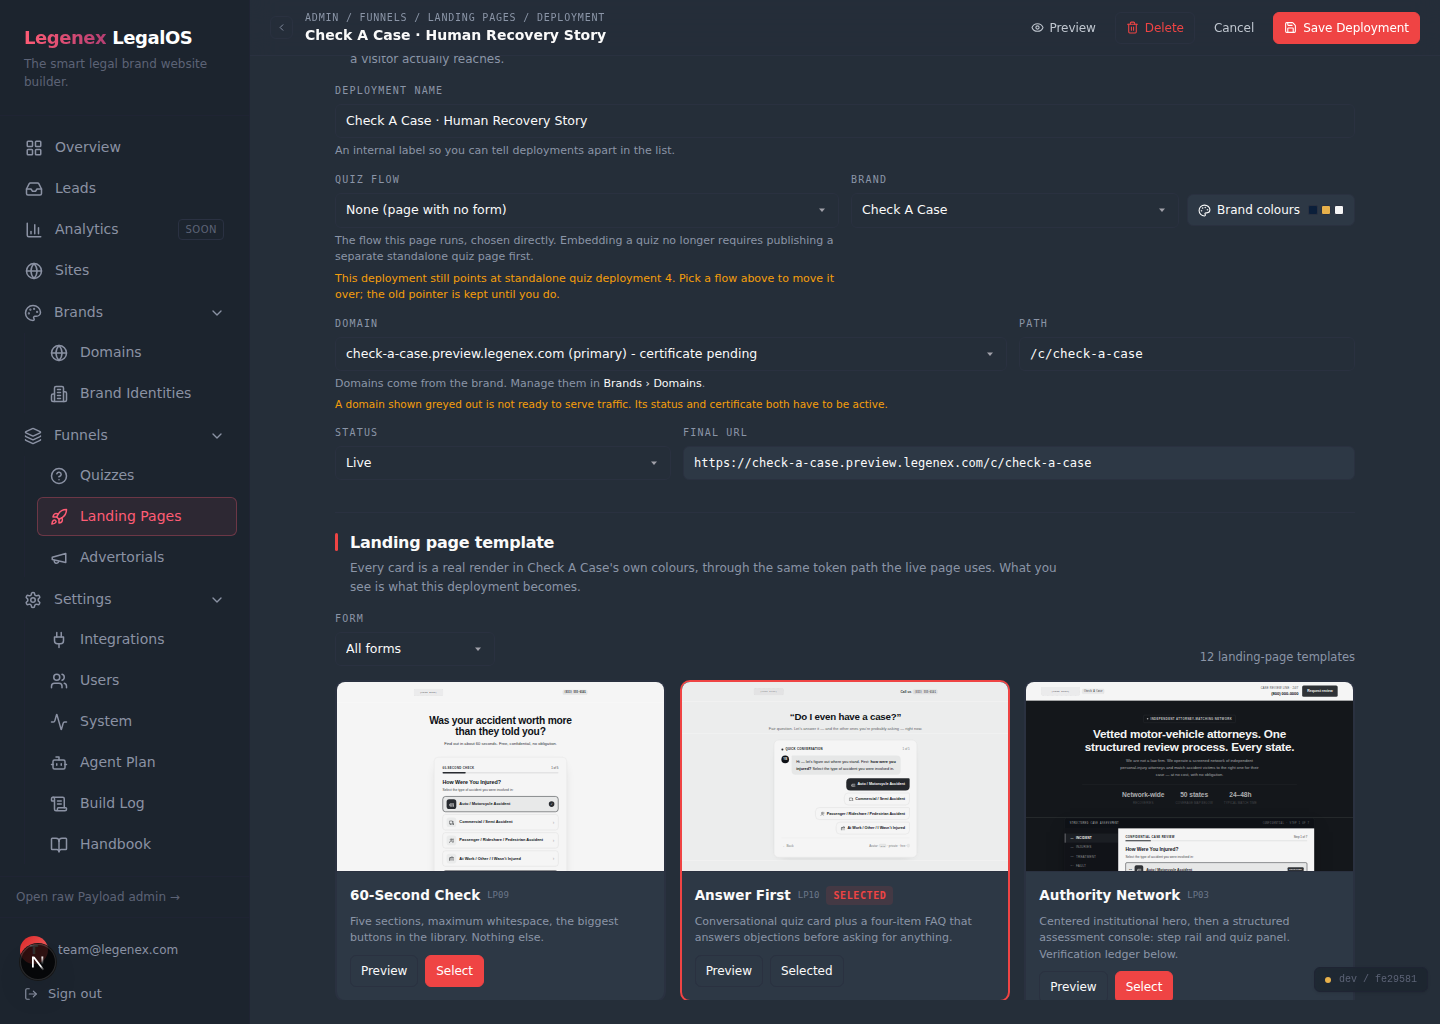
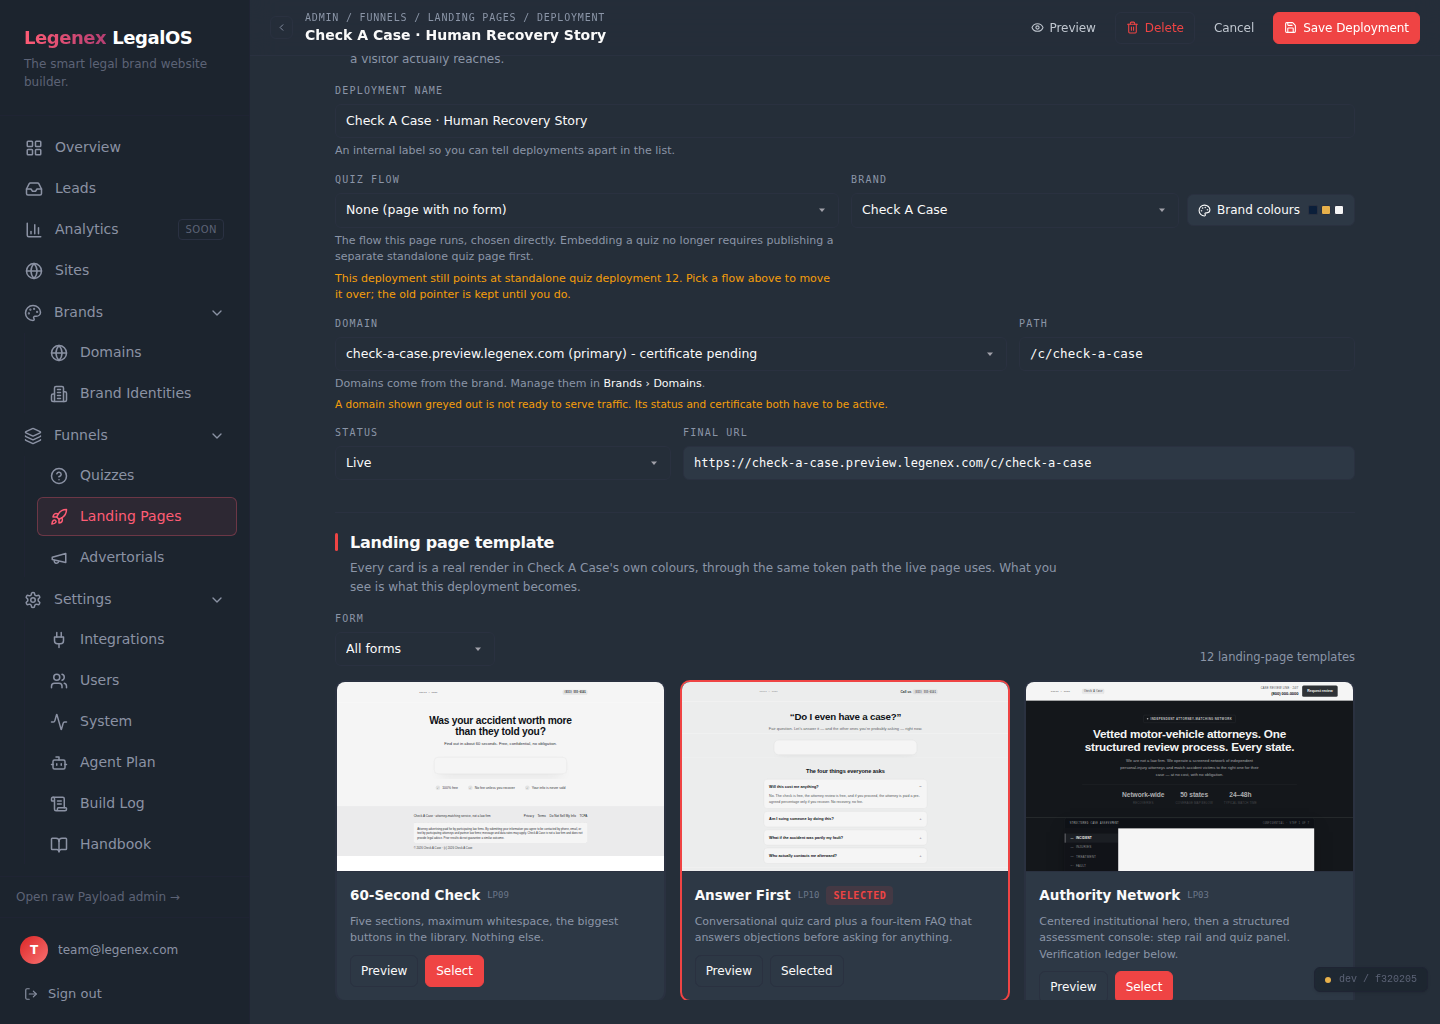
docs: traceability matrix, state checkpoint, and two records that stopped being true
- docs/requirements-traceability.md: every requirement with its proof and an
  honest status - builder-dependent rows say IN PROGRESS, not PASS.
- docs/template-model-correction.md: the NOT DONE section (ported LPs never
  mount the runtime) gets a dated RESOLVED addendum - the release branch's
  quiz-mount system now runs on the first-class template records, proven by
  test:e2e in a production build.
- docs/template-sweep-baseline.md: re-measured on the integrated branch
  (25 fixture failures, was 27 at first cut; 200/24 unchanged).
- docs/final-integration-state.md: production sign-in crash, empty-box fix,
  sample-seed heal, and the current suite ledger.

Claude-Session: https://claude.ai/code/session_01ASm6bBkEEXQpeX46Rj2fWB

diff --git a/docs/requirements-traceability.md b/docs/requirements-traceability.md
@@ -1,0 +1,160 @@
+# Requirements traceability — final integration
+
+Every requirement from the final-integration instruction, with where it lives,
+what proves it, and its current status. Statuses are only NOT STARTED /
+IN PROGRESS / PASS / EXTERNAL BLOCKER / FAIL. "PASS" means a reproducible
+automated test, browser assertion, database assertion or screenshot exists and
+ran green on the integrated branch in THIS environment (fresh Postgres 16,
+production build). Suites named here: `pnpm test` (11 unit suites),
+`test:isolation`, `test:identity`, `test:release`, `test:bootstrap`,
+`test:dom`, `test:ui` (Chromium vs production build), `test:e2e`
+(production-mode browser lead proof), `sweep:templates`.
+
+Owners: ORCH = orchestrator session; B-C/B-E/B-F = builder agents (quiz-AI,
+security, browser-conformance); source-branch work is credited where it was
+merged in.
+
+## 1 · Branch integration
+
+| ID | Requirement | Where | Proof | Status |
+|---|---|---|---|---|
+| R1.1 | Both source branches integrated on one branch | merge bcd36d4 + repairs | `git log --graph`; both tips are parents | PASS |
+| R1.2 | Conflicts resolved semantically, decisions recorded | docs/final-integration-state.md §"Semantic merge decisions" | 8 recorded decisions; scout reports in docs/agent-reports/ | PASS |
+| R1.3 | Duplicate migration prefix resolved, deterministic order | 20260813_220000_template_records.ts (renamed) | `pnpm test:release` 27/27 incl. renamed migration in RELEASE_MIGRATIONS | PASS |
+| R1.4 | No security/runtime/release work lost | scout-security.md guard inventory; union verified | authz 69, webhook 133, observability 44, brand-identity 721 green | PASS |
+| R1.5 | Fresh PG16 bootstrap, both source-schema upgrades, no manual SQL | migrations chain | `payload migrate` on empty DB; upg_ui + upg_rel scratch DBs migrated + `verify:schema` OK ×2; `test:bootstrap` 55/55 | PASS |
+| R1.6 | Generated types include all new collections | src/payload-types.ts (generated) | `generate:types` + `pnpm typecheck` clean | PASS |
+
+## 2 · Product model (section 6)
+
+| ID | Requirement | Where | Proof | Status |
+|---|---|---|---|---|
+| R2.1 | Site Pages untouched by LP correction | src/app/(app)/admin/sites/[slug]/pages, src/collections/Pages.ts | zero diffs vs main (scout-brand-site §4); `test:dom` 357 | PASS |
+| R2.2 | Quiz Flow owns logic; Quiz Template owns presentation; never merged | FunnelQuizzes vs FunnelQuizTemplates collections | `test:flow` 202; `test:records` 85; separate collections | PASS |
+| R2.3 | Quiz Deployment = Flow × Template × Brand × Config | src/lib/quiz-deployment.ts | `test:identity` quiz A/B render distinct templates from one flow | PASS |
+| R2.4 | LP Template is THE authored page (no Page+Template split) | funnel-landing-pages records; ensureTemplateLibrary | `test:identity` 33; `test:ui` "no Pages tab" assertions | PASS |
+| R2.5 | Same LP template record feeds list/editor/preview/selector/deployment-preview/public render | template-records + resolveTemplate chain | `test:identity`: saved id == publicly rendered id, repoint changes render | PASS |
+| R2.6 | Brand Identity owns colors/typography/logos/voice/facts/legal/nav | Sites.brand_identity + src/lib/brand-map.ts (single mapper) | `test:brand-identity` 721; scout-brand-site: no second mapper | PASS |
+| R2.7 | Deployments own selection/brand/domain/path/status/destinations/tracking/overrides | funnel-*-deployments collections | `test:publish` 184; `test:ui` General/Destination/Tracking tabs | PASS |
+| R2.8 | AI may not alter graph/qualification/consent/identity/domain/routing/tracking/authz/publication/code | content-actions targets editableSlots only; AI schema closed | `test:ai` 58 (incl. refusals); quiz-AI schema (B-C) | PASS |
+
+## 3 · LP template system (section 8)
+
+| ID | Requirement | Proof | Status |
+|---|---|---|---|
+| R3.1 | Tabs exactly Templates \| Deployments, no Pages tab | `test:ui`: "exactly two top-level tabs", per-tab assertions | PASS |
+| R3.2 | 12 stock templates materialized as stable records | `test:identity` "twelve records"; `test:records` 85 | PASS |
+| R3.3 | Samples (MVA Pain First / Editorial Test) reconciled, not a competing library | `test:identity`: samples absent from library, deployments repointed | PASS |
+| R3.4 | Preview/Edit/Clone/Enable/Disable/Delete/Create-blank/Create-with-Claude | `test:ui` row-action assertions + AI wizard; `test:records` CRUD | PASS |
+| R3.5 | Stock identity immutable via REST/CMS/local API | src/hooks/template-guards.ts; `test:records` raw-door cases | PASS |
+| R3.6 | Referenced templates not hard-deletable; disable ≠ takedown | template-guards + `test:records`; `test:identity` disabled-still-serves | PASS |
+| R3.7 | Clones: unique stable identity, renderable after save/reload | `test:identity` clone cases (LP + quiz) | PASS |
+| R3.8 | AI-created LP templates: valid structure, real preview, stable id, no blank preview, no fallback | LP AI wizard + `test:ai`; PortedTemplateView un-mounted drawing fix | PASS |
+| R3.9 | Template editor: left controls, live preview, sections, mobile/desktop, brand-neutral saved state | `test:ui` editor assertions + screenshots | PASS |
+
+## 4 · Quiz template system (section 9)
+
+| ID | Requirement | Proof | Status |
+|---|---|---|---|
+| R4.1 | Tabs exactly Quiz Flows \| Templates \| Deployments | `test:ui` quiz-tab assertions | PASS |
+| R4.2 | 20 stock quiz templates as manageable records | `test:identity` "twenty records"; `test:records` | PASS |
+| R4.3 | Template CRUD incl. create custom + with Claude | `test:ui`; createQuizTemplateWithClaude (B-C) | IN PROGRESS |
+| R4.4 | Stable template id separate from renderer key; clones use existing renderer + own config | funnel-quiz-templates schema (template_id vs renderer_key) | PASS |
+| R4.5 | Disabled: not selectable for new; existing keep rendering + admin warning | `test:identity` disable case; `test:ui` warning assertions | PASS |
+| R4.6 | Unknown template ids fail visibly, never default/first-template | `test:identity` bad-id refuses; hydrateQuizDeployment → 404 + log | PASS |
+
+## 5 · Deployment UI (section 10)
+
+| ID | Requirement | Proof | Status |
+|---|---|---|---|
+| R5.1 | Quiz deployment tabs exactly General \| Destination URL's \| Tracking & Pixels (Render&Embed / Header/Footer / Body Sections removed) | `test:ui` tab-set assertions | PASS |
+| R5.2 | Quiz General: name/flow/brand/domain/path/status/embed-or-standalone/visual gallery | `test:ui` + quiz-deployment-general.png | PASS |
+| R5.3 | LP deployment same tab set; General incl. DIRECT Quiz Flow select (not a standalone quiz deployment) | `test:ui` + landing-page-deployment-general.png | PASS |
+| R5.4 | Gallery cards: real preview, Preview button, Select button, obvious selected state | `test:ui` card assertions; empty-box fix (PortedTemplate) | PASS |
+| R5.5 | Save/reload preserves selected template record id; public render uses it; no silent fallback | `test:ui` save/reload; `test:identity` DB-level | PASS |
+| R5.6 | Headings visually clear/prominent | `test:ui` heading assertions + screenshots | PASS |
+
+## 6 · Functional LP quiz (section 11) — release-critical
+
+| ID | Requirement | Proof | Status |
+|---|---|---|---|
+| R6.1 | 12 stock LP templates carry exactly one semantic mount where required | extractor refuses ≠1; generated-index verified; `test:slots` 906 | PASS |
+| R6.2 | Mount replaces only the quiz card; surrounding content survives | composeTemplateWithQuizMount; `test:e2e` template-marker assertions | PASS |
+| R6.3 | Static reference buttons removed/inert once runtime mounts | mounted HTML strips card; e2e "clicks produce zero stray posts" | PASS |
+| R6.4 | Runtime = shared QuizRuntime + hydration + selected flow/template/brand + shared consent/destinations/lead submission | QuizMount portal → QuizRuntime; `test:e2e` | PASS |
+| R6.5 | AI/cloned templates that support a quiz carry explicit mount; publish fails visibly without one | extract pipeline + `quiz-bound` preflight; `test:publish` | PASS |
+| R6.6 | Browser E2E: ≥3 materially different LP templates, same flow: mount region, content survives, advance, branching, progress, backtrack clears state, lead form, consent, exactly one POST, exactly one row, mobile+desktop usable, static buttons inert | `test:e2e` 34 assertions (production build) + `test:ui` public proofs; mobile pass (B-F) pending | IN PROGRESS |
+| R6.7 | Exactly one standalone quiz lead | `test:e2e` standalone path | PASS |
+
+## 7 · Brand Identity + Site Builder (section 12)
+
+| ID | Requirement | Proof | Status |
+|---|---|---|---|
+| R7.1 | Multi-source engine preserved (URL/GitHub/markdown/logo/brief/structured; precedence/provenance/confidence/locks/refresh-diff/style/voice/facts/legal) | src/lib/brand-identity/*; `test:brand-identity` 721 | PASS |
+| R7.2 | SSRF protections preserved | image-hosts.mjs deny-all default, admitUrlShape, safePost; `test:brand-identity` SSRF section | PASS |
+| R7.3 | ONE canonical mapping feeds site/quiz/LP previews + public + AI | siteToBrand single mapper (scout-verified); `lint:tokens` | PASS |
+| R7.4 | Site pages preview/publish/unpublish work; nav/footer inherit | untouched site-builder paths; `test:dom` | PASS |
+| R7.5 | No [LOGO SLOT]/mock placeholders; neutral degradation; missing required brand values block publish | renderImageWell 4-outcome degrade; checkBrand preflight; `test:publish` | PASS |
+
+## 8 · AI template & copy (section 13)
+
+| ID | Requirement | Proof | Status |
+|---|---|---|---|
+| R8.1 | New-with-Claude creates real records (LP + quiz) | LP wizard (merged) + quiz wizard (B-C) | IN PROGRESS |
+| R8.2 | LP AI output conforms to section/content/mount schema; quiz AI to visual-config schema | zod schemas via invokeLLM forced tool_use | PASS |
+| R8.3 | No arbitrary executable code; unsafe HTML/unknown slot/missing mount refused | validateOverrides + schema closure; `test:ai` negative cases | PASS |
+| R8.4 | AI unavailable / invalid schema / partial acceptance / human edit / reset / clone-after-AI / selection / preview / render identity | `test:ai` 58 + records/identity suites | PASS |
+
+## 9 · Publishing, paths, domains (section 14)
+
+| ID | Requirement | Proof | Status |
+|---|---|---|---|
+| R9.1 | Dedicated publish/unpublish lifecycle; preflight on publish AND resume; down never gated | publish-actions + decideTransition; `test:publish` 184 | PASS |
+| R9.2 | THE preflight list (authz, parent, template enabled+identity, flow validation, brand, consent, overrides, destinations, tracking, domain ownership/eligibility, path claims, hydration, LP mount) | publish-lifecycle.ts checks; `test:publish` names each | PASS |
+| R9.3 | Every publish door preflights (UI save path included) | saveDeployment/saveQuizDeployment delegate live-flips to set*DeploymentStatus (done); raw-door context gate (B-E) pending | IN PROGRESS |
+| R9.4 | One effective-path model across Pages/quiz/LP deployments | src/lib/path-claims.ts; `test:publish` path sections | PASS |
+| R9.5 | Unpublish preserves records, removes public access; admins keep draft preview | resolver status filters + includeUnpublished re-verified auth | PASS |
+| R9.6 | Domain eligibility not weakened | domain-eligibility.ts single contract; `test:publish` domain-ssl warning case | PASS |
+| R9.7 | Namecheap DNS / production TLS | — | EXTERNAL BLOCKER |
+
+## 10 · Security (section 15)
+
+| ID | Requirement | Proof | Status |
+|---|---|---|---|
+| R10.1 | Template raw doors: no stock delete, no identity rewrite, no disabled-selection via REST/CMS/local | template-guards hooks; `test:records` | PASS |
+| R10.2 | Tenant isolation: no cross-tenant template/deployment writes, no cross-bind of flow/domain, no cross-tenant unpublished reads, no preview-header crossing | authz gates (done); deployment-tenancy hook + extended `test:isolation` (B-E) pending; `test:authz` 69 | IN PROGRESS |
+| R10.3 | SSRF/TrustedForm host/webhook target/image-host/XSS/log-redaction preserved | union verified (scout-security); webhook 133 + brand-identity 721 + observability 44 | PASS |
+| R10.4 | overrideAccess uses documented/justified | scout-security audit: no unjustified elevated write | PASS |
+| R10.5 | Negative controls: disable guard → test fails for the right reason → restore | B-E three-control confirmation pending | IN PROGRESS |
+| R10.6 | Advertorial deployment actions gated (G1) | advertorials/actions.ts + requireDeploymentSiteAdmin (B-E) | IN PROGRESS |
+
+## 11 · Migration & release (section 16)
+
+| ID | Requirement | Proof | Status |
+|---|---|---|---|
+| R11.1 | Deterministic sequence, no duplicate prefixes | renamed 220000; directory==index asserted | PASS |
+| R11.2 | Empty-DB chain, boot, types, CRUD, materialization, prior-schema upgrade, both source upgrades, locked-document deletes, rollback, no manual SQL/ledger edits | test:release 27 + test:bootstrap 55 + upg_ui/upg_rel runs + down() migrations idempotent | PASS |
+| R11.3 | release.sh: verify source, size-checked backup, fetch/deploy, stop, install, build, migrate-before-start, verify schema, start, health, staged rollback | scripts/release.sh (release branch, reviewed); ordering proven by test:release against prior-schema scratch DB | PASS |
+
+## 12 · Test matrix & UX checks (section 17)
+
+| ID | Requirement | Proof | Status |
+|---|---|---|---|
+| R12.1 | Frozen-lockfile install / typecheck / production build | all three clean in this environment | PASS |
+| R12.2 | Full suites from the integrated branch (no source-branch counts) | unit 2565 + isolation + identity 33 + release 27 + bootstrap 55 + dom 357 + ui 85+ + e2e 34; counts re-run post-changes | PASS |
+| R12.3 | Template coverage: exactly 20 quiz + 12 LP stock, all resolve, enabled selectable, disabled excluded, clones + AI render, no zero-template pass, no silent fallback | test:identity + test:records + sweep (36 templates × 13 fixtures; exit-2-on-empty design) | PASS |
+| R12.4 | Screenshots: LP templates list, LP editor, quiz templates list, quiz editor, quiz deployment General, LP deployment General, public LP w/ runtime, desktop + mobile | docs/screenshots/*.png (desktop set regenerated); mobile shots (B-F) pending | IN PROGRESS |
+| R12.5 | Keyboard access, visible focus, labels, contrast, no overflow, no hydration errors, no console errors, no failed product requests | test:ui requirement-H extension (B-F) | IN PROGRESS |
+
+## 13 · External blockers (unchanged by this work)
+
+| ID | Item | Status |
+|---|---|---|
+| X1 | Namecheap DNS + production TLS for tenant domains (EB-2) | EXTERNAL BLOCKER |
+| X2 | Authoritative MVA tier business rules / production tier service 405 (EB-1) | EXTERNAL BLOCKER |
+| X3 | Production error-reporting destination decision (EB-3) | EXTERNAL BLOCKER |
+
+Nothing in this matrix is marked PASS on the strength of a source branch's
+run: every count above was produced by suites executed on the integrated
+branch in this session. Where a builder agent (B-C/B-E/B-F) is cited, the
+orchestrator re-ran the named suites after integrating that work.

diff --git a/docs/final-integration-state.md b/docs/final-integration-state.md
@@ -71,6 +71,34 @@ here.
    merged rule (a ported LP whose funnel cannot mount is not served) is the
    product behavior, and identity fixtures must be servable to test identity.
 
+## Progress since the first checkpoint (2026-08-13, later)
+
+- **Production-only sign-in crash FOUND AND FIXED.** The merged module set
+  made the long-standing `access → authz → auth → payload.config →
+  collections → access` import ring evaluate in a crashing order in the
+  production chunker only (`Cannot access before initialization`; dev was
+  fine, which is why every dev-mode browser proof missed it). Fixed
+  structurally: `relationId` extracted to leaf `lib/relation-id.ts`;
+  `lib/auth.ts` + `lib/site-resolver.ts` import `@payload-config` lazily.
+  Sign-in verified in a production build.
+- **Gallery empty-box (R1) fixed**: `PortedTemplateView` renders the
+  mount-holed HTML only when a runtime will fill it; quiz-less admin contexts
+  get the reference's inert card drawing.
+- **Sample seeding defect fixed**: seedBase created live LP deployments
+  before the flow existed (no binding → correctly refused → live 404s).
+  Flow now seeds first and is bound directly; `healUnboundSampleLps` runs
+  before the seeded-marker early-return and heals recognized sample rows only.
+- **Suites on the integrated branch**: unit 2,565 (11 suites) · isolation 12 ·
+  identity 33 · release 27 · bootstrap 55 · dom 357 · **ui 85/85 (production
+  build, real login)** · **e2e 34/34 (production, exactly-one-lead)** ·
+  sweep runs 36×13 with the documented baseline (200/25/24 — see
+  docs/template-sweep-baseline.md; 25 ≤ the 27 first cut).
+- **Docs amended**: template-model-correction.md carries a dated RESOLVED
+  section; sweep baseline re-measured; requirements-traceability.md drafted.
+- **In flight (builder agents)**: quiz "Create with Claude" (B-C),
+  requirement-H browser checks incl. mobile/keyboard/console (B-F),
+  security G1/G2/G3 + raw-door publish context gate + negative controls (B-E).
+
 ## Known open work (gates not yet run)
 
 - **Gallery empty-box regression (R1, scouts 2+6):** release's

diff --git a/docs/template-model-correction.md b/docs/template-model-correction.md
@@ -328,6 +328,33 @@ five templates.
 
 **What an operator sees meanwhile:** nothing. This is the one place in the
 change where a failure is still silent, and it should be the next thing done.
+
+## RESOLVED at integration (2026-08-13)
+
+The section above described this branch in isolation, and it was the next
+thing done — on the release branch, in parallel. The integration branch
+carries both, and the requirement is now met on the first-class template
+records this document introduced:
+
+* The mount boundary is semantic, not guessed: `src/lib/lp-slots/quiz-mount.ts`
+  and the extractor (`scripts/extract-lp-templates.mjs`) refuse to write a
+  template without exactly one mount, and all twelve stock records resolve to
+  code modules that carry one (`generated-index.json`).
+* `PortedTemplateView` accepts `quiz`/`quizCtx` and portals the shared
+  `QuizRuntime` into the reference's own card
+  (`src/components/builder/lp/PortedTemplate.tsx`); the drawn answer tiles are
+  REPLACED in the mounted HTML, not left beside the runtime. A context without
+  a quiz (gallery card, editor before a flow is chosen) renders the reference's
+  inert drawing instead of a mount hole.
+* The resolver refuses to serve a ported page whose quiz cannot mount
+  (`src/lib/lp-deployment.ts`), the publish preflight blocks it earlier
+  (`quiz-bound` in `src/lib/publish-lifecycle.ts`), and the failure is no
+  longer silent: the admin deployment list names dangling legacy pointers.
+* Proven end to end in a production build: `pnpm test:e2e` drives a real
+  browser through an LP-embedded flow — answers advance, backtracking clears
+  stale state, consent renders, and exactly one lead POST produces exactly one
+  lead row. `pnpm test:ui` proves the same public page serves per-template
+  markers for two different templates under one brand.
 The recommendation architecture the brief asks to preserve is already in place
 and correct (`RECOMMENDED_QUIZ_BY_LP`, the override dropdown, and
 `resolveEmbeddedQuiz` hydrating through the standalone path) — it feeds a

diff --git a/docs/template-sweep-baseline.md b/docs/template-sweep-baseline.md
@@ -43,7 +43,9 @@ actually renders a landing page today.
 ```
 36 templates × 13 fixtures
 200 template violations
- 27 fixture assertion failures
+ 25 fixture assertion failures  (27 when this baseline was first cut; two
+                                 cleared by later template work — re-measured
+                                 2026-08-13 on the integration branch)
  24 dead brand variables
   0 import-boundary breaches
 ```
